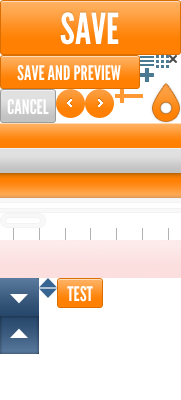
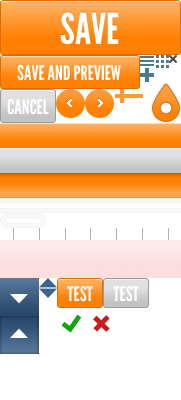
regex tester tweaks

Changed region(s): [[0.5249, 0.69, 0.8287, 0.84], [0.3315, 0.78, 0.442, 0.84]]

diff --git a/jcsdl/jcsdl.css b/jcsdl/jcsdl.css
@@ -53,7 +53,7 @@
   display: block;
   height: 34px;
   width: 140px;
-  background: url("img/elements.png?15") no-repeat 0 -55px; }
+  background: url("img/elements.png?16") no-repeat 0 -55px; }
   .jcsdl-button.jcsdl-editor-cancel, .jcsdl-button.jcsdl-filter-cancel {
     width: 56px;
     background-position: 0 -89px; }
@@ -103,7 +103,7 @@
   -moz-background-clip: padding;
   -webkit-background-clip: padding-box;
   background-clip: padding-box;
-  background: url("img/elements.png?15") repeat-x center -240px; }
+  background: url("img/elements.png?16") repeat-x center -240px; }
   .jcsdl-error strong {
     color: red;
     font-weight: bold; }
@@ -136,7 +136,7 @@
     display: block;
     width: 14px;
     height: 14px;
-    background: url("img/elements.png?15") no-repeat -140px -68px; }
+    background: url("img/elements.png?16") no-repeat -140px -68px; }
   .jcsdl-mainview-action.jcsdl-add-filter {
     margin-right: 0; }
   .jcsdl-mainview-action:hover {
@@ -166,7 +166,7 @@
   display: block;
   width: 13px;
   height: 13px;
-  background: url("img/elements.png?15") no-repeat -140px -55px;
+  background: url("img/elements.png?16") no-repeat -140px -55px;
   -ms-filter: "progid:DXImageTransform.Microsoft.Alpha(Opacity=30)";
   filter: alpha(opacity=30);
   -moz-opacity: 0.3;
@@ -325,7 +325,7 @@
   height: 29px;
   line-height: 29px;
   text-align: center;
-  background: transparent url("img/elements.png?15") no-repeat -56px -89px; }
+  background: transparent url("img/elements.png?16") no-repeat -56px -89px; }
   .jcsdl-carousel-scroll.right {
     float: right;
     background-position: -85px -89px; }
@@ -451,7 +451,7 @@
       -moz-background-clip: padding;
       -webkit-background-clip: padding-box;
       background-clip: padding-box;
-      background: url("img/elements.png?15") no-repeat 0 -278px; }
+      background: url("img/elements.png?16") no-repeat 0 -278px; }
     .jcsdl-filter-editor .jcsdl-operators-select:hover {
       background: #fafafa; }
       .jcsdl-filter-editor .jcsdl-operators-select:hover .jcsdl-dropdown-icon {
@@ -578,7 +578,7 @@
           position: absolute;
           right: 4px;
           top: 12px;
-          background: url("img/elements.png?15") no-repeat -169px -55px;
+          background: url("img/elements.png?16") no-repeat -169px -55px;
           -ms-filter: "progid:DXImageTransform.Microsoft.Alpha(Opacity=70)";
           filter: alpha(opacity=70);
           -moz-opacity: 0.7;
@@ -615,23 +615,48 @@
     height: 30px;
     overflow: hidden;
     text-indent: -9999px;
-    background: url("img/elements.png?15") no-repeat -57px -278px; }
+    background: url("img/elements.png?16") no-repeat -57px -278px; }
     .jcsdl-input-text .jcsdl-regex-tester-button:hover, .jcsdl-input-number .jcsdl-regex-tester-button:hover {
       -ms-filter: "progid:DXImageTransform.Microsoft.Alpha(Opacity=90)";
       filter: alpha(opacity=90);
       -moz-opacity: 0.9;
       -khtml-opacity: 0.9;
       opacity: 0.9; }
+    .jcsdl-input-text .jcsdl-regex-tester-button.active, .jcsdl-input-number .jcsdl-regex-tester-button.active {
+      background-position: -103px -278px;
+      -ms-filter: "progid:DXImageTransform.Microsoft.Alpha(Opacity=75)";
+      filter: alpha(opacity=75);
+      -moz-opacity: 0.75;
+      -khtml-opacity: 0.75;
+      opacity: 0.75; }
+      .jcsdl-input-text .jcsdl-regex-tester-button.active:hover, .jcsdl-input-number .jcsdl-regex-tester-button.active:hover {
+        -ms-filter: "progid:DXImageTransform.Microsoft.Alpha(Opacity=75)";
+        filter: alpha(opacity=75);
+        -moz-opacity: 0.75;
+        -khtml-opacity: 0.75;
+        opacity: 0.75; }
   .jcsdl-input-text .jcsdl-regex-tester p, .jcsdl-input-number .jcsdl-regex-tester p {
     text-align: center;
     margin: 5px 30px;
     color: #888888; }
+  .jcsdl-input-text .jcsdl-regex-tester .jcsdl-regex-tester-input-wrap, .jcsdl-input-number .jcsdl-regex-tester .jcsdl-regex-tester-input-wrap {
+    position: relative; }
+  .jcsdl-input-text .jcsdl-regex-tester .jcsdl-regex-result, .jcsdl-input-number .jcsdl-regex-tester .jcsdl-regex-result {
+    position: absolute;
+    top: 5px;
+    right: 54px;
+    display: none;
+    width: 30px;
+    height: 30px;
+    overflow: hidden;
+    background: url("img/elements.png?16") no-repeat -57px -308px; }
+    .jcsdl-input-text .jcsdl-regex-tester .jcsdl-regex-result.ok, .jcsdl-input-number .jcsdl-regex-tester .jcsdl-regex-result.ok {
+      background-position: -57px -308px; }
+    .jcsdl-input-text .jcsdl-regex-tester .jcsdl-regex-result.err, .jcsdl-input-number .jcsdl-regex-tester .jcsdl-regex-result.err {
+      background-position: -87px -308px; }
   .jcsdl-input-text .jcsdl-regex-tester input, .jcsdl-input-number .jcsdl-regex-tester input {
-    margin: 5px 0; }
-    .jcsdl-input-text .jcsdl-regex-tester input.ok, .jcsdl-input-number .jcsdl-regex-tester input.ok {
-      border-color: green; }
-    .jcsdl-input-text .jcsdl-regex-tester input.err, .jcsdl-input-number .jcsdl-regex-tester input.err {
-      border-color: red; }
+    margin: 5px 0;
+    padding-right: 84px; }
 
 .jcsdl-input-text {
   margin-top: 20px; }
@@ -702,7 +727,7 @@
       display: block;
       width: 14px;
       height: 14px;
-      background: transparent url("img/elements.png?15") no-repeat -115px -89px;
+      background: transparent url("img/elements.png?16") no-repeat -115px -89px;
       -ms-filter: "progid:DXImageTransform.Microsoft.Alpha(Opacity=70)";
       filter: alpha(opacity=70);
       -moz-opacity: 0.7;
@@ -774,7 +799,7 @@
     margin-bottom: 7px;
     height: 12px;
     cursor: pointer;
-    background: transparent url("img/elements.png?15") repeat-x center -228px;
+    background: transparent url("img/elements.png?16") repeat-x center -228px;
     border: 0;
     -webkit-border-radius: 0px;
     -khtml-border-radius: 0px;
@@ -792,7 +817,7 @@
       width: 30px;
       height: 40px;
       cursor: pointer;
-      background: transparent url("img/elements.png?15") no-repeat -152px -83px;
+      background: transparent url("img/elements.png?16") no-repeat -152px -83px;
       border: 0;
       outline: none; }
   .jcsdl-input-slider .jcsdl-slider-bottom {
@@ -805,7 +830,7 @@
       width: 15px;
       height: 15px;
       float: left;
-      background: transparent url("img/elements.png?15") no-repeat 0 -213px; }
+      background: transparent url("img/elements.png?16") no-repeat 0 -213px; }
     .jcsdl-input-slider .jcsdl-slider-bottom .jcsdl-slider-bottom-right {
       float: right;
       background-position: -31px -213px; }
@@ -813,7 +838,7 @@
       display: block;
       height: 15px;
       margin: 0 15px;
-      background: transparent url("img/elements.png?15") repeat-x 0 -198px; }
+      background: transparent url("img/elements.png?16") repeat-x 0 -198px; }
 
 .jcsdl-map {
   text-align: center;
@@ -1557,7 +1582,7 @@
         margin: 18px 10px;
         width: 18px;
         height: 10px;
-        background: url("img/elements.png?15") no-repeat -39px -288px;
+        background: url("img/elements.png?16") no-repeat -39px -288px;
         -ms-filter: "progid:DXImageTransform.Microsoft.Alpha(Opacity=50)";
         filter: alpha(opacity=50);
         -moz-opacity: 0.5;

diff --git a/jcsdl/jcsdl.gui.plugins.js b/jcsdl/jcsdl.gui.plugins.js
@@ -618,24 +618,37 @@
 
 		this.$btn = $('<a href="#" class="jcsdl-regex-tester-button">Test</a>').insertAfter(this.$el);
 		
-		this.$wrap = $('<div class="jcsdl-regex-tester"><p>If you want to test whether your regular expression correctly matches the desired strings, click the "Test" button and input example content in the shown fields.</p></div>').insertAfter(this.$el).hide();
+		this.$wrap = $('<div class="jcsdl-regex-tester"><p>If you want to test whether your regular expression correctly matches the desired strings, click the "Test" button and input example content in the shown field.</p></div>').insertAfter(this.$el).hide();
 		this.$fields = $();
+		this.$fieldsWraps = $();
+
 		for(var i = 1; i <= config.fields; i++) {
 			var $field = this.$el.clone().show().attr('placeholder', 'Test your expression against this field...');
-			$field.appendTo(this.$wrap);
+			var $fieldBtn = $('<a href="#" class="jcsdl-regex-tester-button" />');
+			var $fieldWrap = $('<div class="jcsdl-regex-tester-input-wrap" />').html($field).append($fieldBtn).append('<div class="jcsdl-regex-result" />');
+
+			$fieldWrap.prependTo(this.$wrap);
+
 			this.$fields = this.$fields.add($field);
+			this.$fieldsWraps = this.$fieldsWraps.add($fieldWrap);
+
+			$fieldBtn.bind('click touchstart', function(ev) {
+				ev.preventDefault();
+				ev.target.blur();
+
+				self.val = self.$el.val();
+				self.test($field);
+			});
 		}
 
 		this.$btn.bind('click touchstart', function(ev) {
 			ev.preventDefault();
 			ev.target.blur();
 
-			self.$fields.fadeIn();
-			self.val = self.$el.val();
-			self.test();
+			self.$fieldsWraps.fadeIn();
+			$(this).addClass('active');
 		});
 
-		/*
 		this.$el.bind('keyup change', function(ev) {
 			self.val = self.$el.val();
 			self.test();
@@ -644,7 +657,6 @@
 		this.$fields.bind('keyup', function(ev) {
 			self.test($(this));
 		});
-		*/
 
 		this.disable(); // disabled by default
 	};
@@ -661,9 +673,8 @@
 			this.exp = new RegExp(exp, 'i');
 
 			$fields.each(function(i, field) {
-				var $testField = $(field).removeClass('ok err');
-				var result = (self.exp.test($testField.val())) ? 'ok' : 'err';
-				$testField.addClass(result);
+				var result = (self.exp.test($(field).val())) ? 'ok' : 'err';
+				$(field).siblings('.jcsdl-regex-result').removeClass('ok err').addClass(result).fadeIn();
 			});
 		},
 		enable : function() {
@@ -676,7 +687,7 @@
 			this.$el.data('jcsdlRegExTesterEnabled', false);
 			this.$el.removeClass('jcsdl-regex-active');
 			this.$wrap.hide();
-			this.$fields.hide();
+			this.$fieldsWraps.hide();
 			this.$btn.hide();
 		},
 		setPartial : function() {
@@ -709,7 +720,7 @@
 		}
 
 		options = $.extend({}, {
-			fields : 2
+			fields : 1
 		}, options);
 
 		this.each(function() {get($(this));});

diff --git a/jcsdl/jcsdl.scss b/jcsdl/jcsdl.scss
@@ -6,7 +6,7 @@ $colorBlackLight : #c6c6c9;
 $colorOrange : #ff9933;
 $borderColor : #dcdcdc;
 $borderColorInput : #c8d7de;
-$elementsSprite : 'img/elements.png?15';
+$elementsSprite : 'img/elements.png?16';
 $selectSprite : 'img/select.png?12';
 $stepBackground : 'img/step_background.png?5';
 $targetIconsSprite : 'img/icons-sprite-targets.png?11';
@@ -464,16 +464,29 @@ $otherIconsSprite : 'img/icons-sprite-other.png?2';
 		background: url($elementsSprite) no-repeat -57px -278px;
 
 		&:hover {@include opacity(0.9);}
+		&.active {
+			background-position: -103px -278px;
+			@include opacity(0.75);
+			&:hover {@include opacity(0.75);}
+		}
 	}
 
 	.jcsdl-regex-tester {
 		p {text-align: center; margin: 5px 30px; color: $colorLight;}
-		
-		input {
-			margin: 5px 0;
-			&.ok {border-color: green;}
-			&.err {border-color: red;}
+
+		.jcsdl-regex-tester-input-wrap {position: relative;}
+
+		.jcsdl-regex-result {
+			position: absolute; top: 5px; right: 54px;
+			display: none; width: 30px; height: 30px;
+			overflow: hidden;
+			background: url($elementsSprite) no-repeat -57px -308px;
+
+			&.ok {background-position: -57px -308px;}
+			&.err {background-position: -87px -308px;}
 		}
+		
+		input {margin: 5px 0; padding-right: 84px;}
 	}
 }
 .jcsdl-input-text {margin-top: 20px;}
